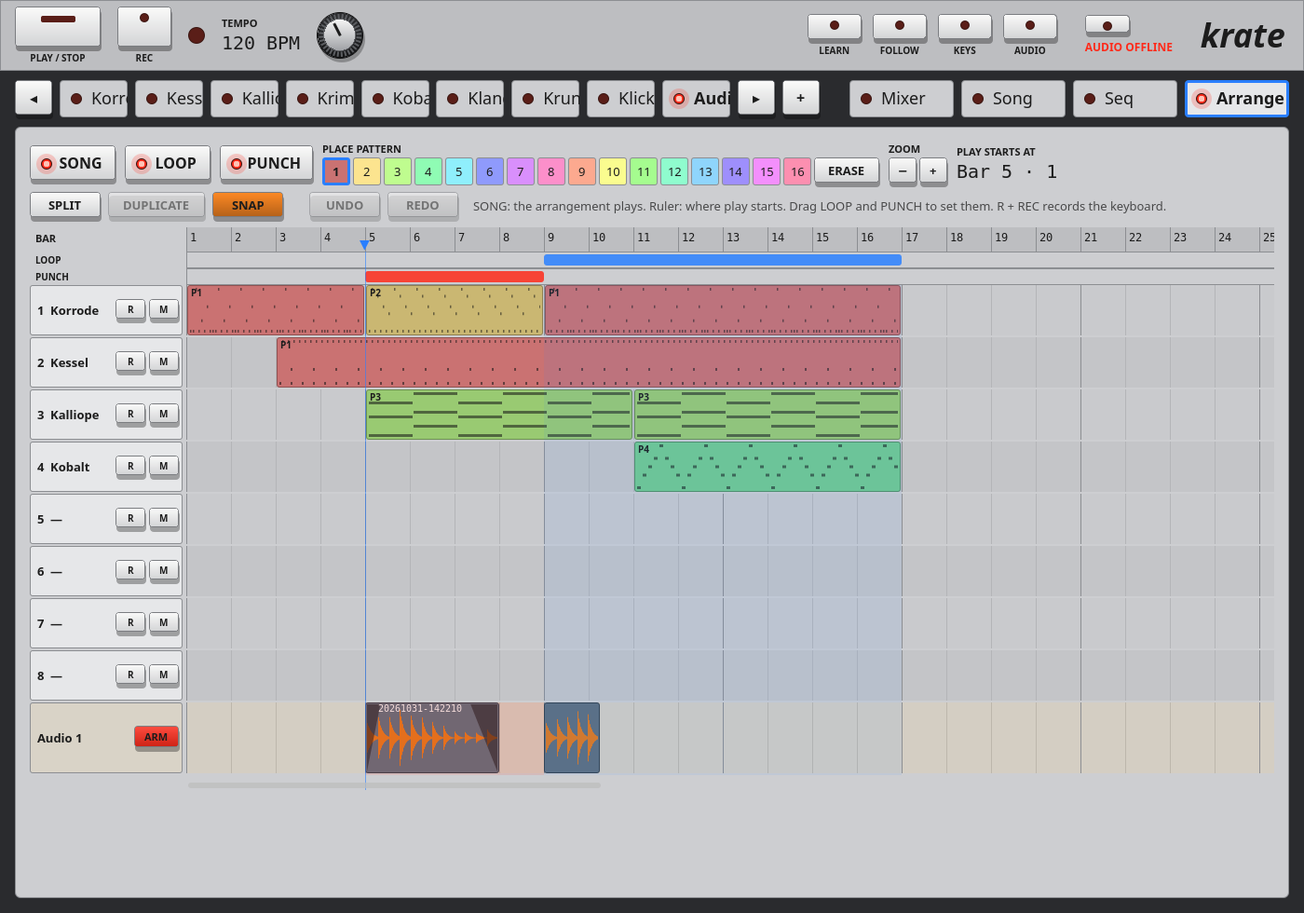
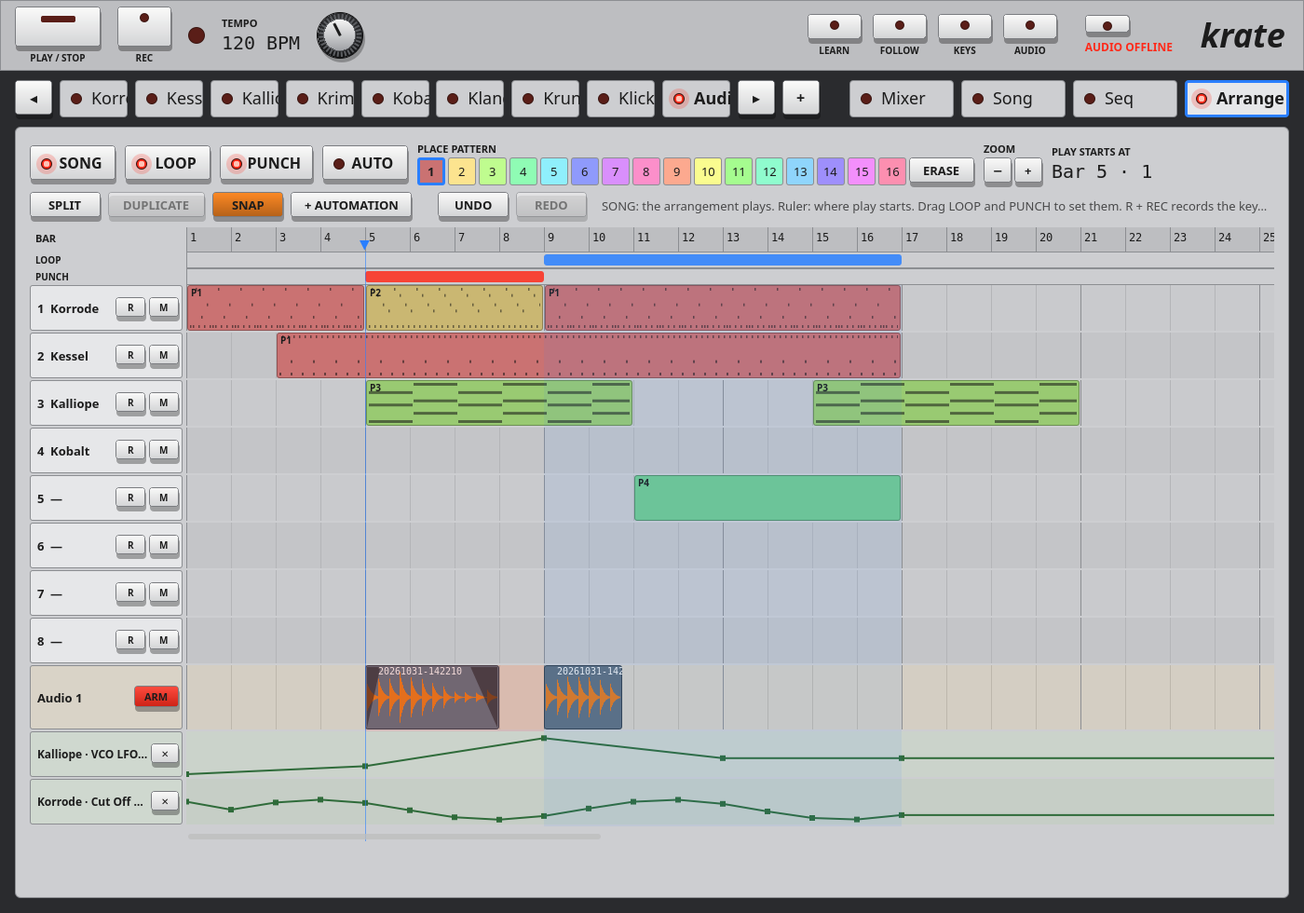
D5: automation lanes in the arranger; D5 done
+ AUTOMATION adds a lane for any instrument knob (an instrument, then its
knob), under the tracks. A click adds a point (quarter beats with SNAP),
points drag (the value shown as the knob shows it), a right click removes
one, a lane's ✕ removes it. AUTO in the header records knobs turned while
the song plays (lit red while recording).

Checked live through PipeWire: Klick's pitch turned through its panel
controller with AUTO on became a rising lane; played back, the knob
followed it (pitch about beat / 8). Points added and dragged with real
mouse events landed where intended.

Docs: D5 marked done in docs/DAW.md; README; the arranger screenshot.

diff --git a/apps/krate/qml/ArrangeScreen.qml b/apps/krate/qml/ArrangeScreen.qml
@@ -19,6 +19,11 @@ import KrateRack
 // click opens a pattern clip's pattern in the Seq screen. MIDI clips edit in
 // whole bars, audio clips in beats (SNAP off: freely). UNDO / REDO (Ctrl+Z,
 // Ctrl+Shift+Z) take back or redo any of it.
+//
+// Automation (D5): + AUTOMATION adds a lane for an instrument's knob, under
+// the tracks; a click on it adds a point, a point drags, a right click
+// removes it. With AUTO on (and SONG), knobs you turn while playing are
+// recorded into their lanes.
 Item {
     id: screen
 
@@ -36,7 +41,7 @@ Item {
     readonly property int stripHeight: 18
     // The lanes fill the screen's height (an audio lane a little taller), within reason.
     readonly property int midiLaneHeight: Math.max(30, Math.min(56, Math.floor(
-        (height - 150 - lanesTop - 24) / (8 + 1.4 * audioLanes.length))))
+        (height - 150 - lanesTop - 24) / (8 + 1.4 * audioLanes.length + autoLanes.length))))
     readonly property int audioLaneHeight: Math.round(midiLaneHeight * 1.4)
     readonly property var trackList: Sequencer.revision >= 0 ? Sequencer.tracks : []
     // The audio tracks in the rack: [{track, device}].
@@ -52,7 +57,10 @@ Item {
     readonly property int bars: Math.min(Arrange.maxBars, Math.max(64, Arrange.endBar + 16,
                                          Math.ceil(Arrange.position / 4) + 16, Arrange.loopTo + 4))
     readonly property real lanesTop: rulerHeight + 2 * stripHeight
+    readonly property var autoLanes: Arrange.revision >= 0 ? Arrange.automationLanes() : []
+    readonly property real autoTop: lanesTop + 8 * midiLaneHeight + audioLanes.length * audioLaneHeight
     readonly property real lanesHeight: 8 * midiLaneHeight + audioLanes.length * audioLaneHeight
+                                        + autoLanes.length * midiLaneHeight
 
     function barAt(x) { return Math.max(0, Math.min(Arrange.maxBars - 1, Math.floor(x / screen.barWidth))) }
     function select(kind, track, index) {
@@ -132,6 +140,16 @@ Item {
             text: "Punch: armed audio tracks record only inside the punch range (SONG mode)"
             onClicked: Arrange.punchOn = !Arrange.punchOn
             Led { x: 12; anchors.verticalCenter: parent.verticalCenter; on: Arrange.punchOn }
+        }
+        PanelButton {
+            width: 92
+            height: 40
+            anchors.verticalCenter: parent.verticalCenter
+            faceText: "    AUTO"
+            text: "Automation: knobs you turn while playing are recorded (SONG mode)"
+            tint: Arrange.writing ? Theme.ledOn : "transparent"
+            onClicked: Arrange.autoWrite = !Arrange.autoWrite
+            Led { x: 12; anchors.verticalCenter: parent.verticalCenter; on: Arrange.autoWrite }
         }
 
         Column {
@@ -273,6 +291,13 @@ Item {
             text: "Snap audio clips to beats"
             tint: screen.snap ? Theme.labelOrange : "transparent"
             onClicked: screen.snap = !screen.snap
+        }
+        PanelButton {
+            width: 130
+            height: 30
+            faceText: "+ AUTOMATION"
+            text: "Add an automation lane for an instrument's knob"
+            onClicked: automationPopup.open()
         }
         Item { width: 12; height: 1 }
         PanelButton {
@@ -450,6 +475,42 @@ Item {
                     text: "Arm Audio " + (audioName.modelData.track + 1) + " for recording"
                     tint: audioName.armed ? Theme.ledOn : "transparent"
                     onClicked: Tracks.setParam(audioName.modelData.track, 0, audioName.armed ? 0 : 1)
+                }
+            }
+        }
+
+        Repeater {
+            model: screen.autoLanes
+            Rectangle {
+                id: autoName
+                required property int index
+                required property var modelData
+                y: screen.autoTop + index * screen.midiLaneHeight
+                width: screen.headerWidth - 4
+                height: screen.midiLaneHeight - 2
+                radius: 3
+                color: "#CFD8CF"
+                border.color: Theme.deckLine
+                Text {
+                    x: 8
+                    anchors.verticalCenter: parent.verticalCenter
+                    width: parent.width - 44
+                    elide: Text.ElideRight
+                    text: autoName.modelData.deviceName + " · " + autoName.modelData.label
+                    color: Theme.ink
+                    font.family: Theme.labelFont
+                    font.pixelSize: 12
+                    font.bold: true
+                }
+                PanelButton {
+                    anchors.right: parent.right
+                    anchors.rightMargin: 4
+                    anchors.verticalCenter: parent.verticalCenter
+                    width: 30
+                    height: 24
+                    faceText: "✕"
+                    text: "Remove the automation lane " + autoName.modelData.deviceName + " " + autoName.modelData.label
+                    onClicked: Arrange.removeAutomationLane(autoName.index)
                 }
             }
         }
@@ -951,6 +1012,117 @@ Item {
                 }
             }
 
+            // The automation lanes: the line, its points.
+            Repeater {
+                model: screen.autoLanes
+                Rectangle {
+                    id: autoLane
+                    required property int index
+                    required property var modelData
+                    readonly property var points: modelData.points
+                    readonly property real beatWidth: screen.barWidth / 4
+                    property int dragging: -1 // the point being dragged
+                    property real dragBeat: 0
+                    property real dragValue: 0
+                    y: screen.autoTop + index * screen.midiLaneHeight
+                    width: content.width
+                    height: screen.midiLaneHeight - 2
+                    color: index % 2 ? "#C6CEC6" : "#CBD3CB"
+
+                    function xOf(beat) { return beat * beatWidth }
+                    function yOf(value) { return 3 + (1 - value) * (height - 6) }
+                    function valueAt(y) { return Math.max(0, Math.min(1, 1 - (y - 3) / (height - 6))) }
+                    // Quarter beats when SNAP is on.
+                    function beatAt(x) {
+                        const beat = Math.max(0, x / beatWidth)
+                        return screen.snap ? Math.round(beat * 4) / 4 : beat
+                    }
+                    function pointNear(x, y) {
+                        for (let i = 0; i < points.length; ++i)
+                            if (Math.abs(xOf(points[i].beat) - x) <= 6 && Math.abs(yOf(points[i].value) - y) <= 8)
+                                return i
+                        return -1
+                    }
+
+                    Canvas {
+                        id: curve
+                        anchors.fill: parent
+                        onPaint: {
+                            const ctx = getContext("2d")
+                            ctx.clearRect(0, 0, width, height)
+                            const pts = autoLane.points.map((p, i) => i === autoLane.dragging
+                                ? { beat: autoLane.dragBeat, value: autoLane.dragValue } : p)
+                            pts.sort((a, b) => a.beat - b.beat)
+                            if (pts.length === 0)
+                                return
+                            ctx.strokeStyle = "#2F6B3A"
+                            ctx.lineWidth = 2
+                            ctx.beginPath()
+                            ctx.moveTo(0, autoLane.yOf(pts[0].value))
+                            for (const p of pts)
+                                ctx.lineTo(autoLane.xOf(p.beat), autoLane.yOf(p.value))
+                            ctx.lineTo(width, autoLane.yOf(pts[pts.length - 1].value))
+                            ctx.stroke()
+                            ctx.fillStyle = "#2F6B3A"
+                            for (const p of pts)
+                                ctx.fillRect(autoLane.xOf(p.beat) - 3, autoLane.yOf(p.value) - 3, 6, 6)
+                        }
+                    }
+                    onPointsChanged: curve.requestPaint()
+                    onBeatWidthChanged: curve.requestPaint()
+                    onHeightChanged: curve.requestPaint()
+                    onWidthChanged: curve.requestPaint()
+
+                    Text { // a dragged point's value, as the knob shows it
+                        visible: autoLane.dragging >= 0
+                        x: autoLane.xOf(autoLane.dragBeat) + 8
+                        y: 2
+                        text: autoLane.dragging >= 0 ? Arrange.valueText(autoLane.index, autoLane.dragValue) : ""
+                        color: Theme.ink
+                        font.family: "monospace"
+                        font.pixelSize: 11
+                        font.bold: true
+                    }
+                    MouseArea {
+                        anchors.fill: parent
+                        acceptedButtons: Qt.LeftButton | Qt.RightButton
+                        preventStealing: true
+                        onPressed: mouse => {
+                            screen.select("", -1, -1)
+                            const near = autoLane.pointNear(mouse.x, mouse.y)
+                            if (mouse.button === Qt.RightButton || screen.erasing) {
+                                if (near >= 0)
+                                    Arrange.removePoint(autoLane.index, near)
+                                return
+                            }
+                            if (near < 0) {
+                                Arrange.addPoint(autoLane.index, autoLane.beatAt(mouse.x), autoLane.valueAt(mouse.y))
+                                return
+                            }
+                            autoLane.dragging = near
+                            autoLane.dragBeat = autoLane.points[near].beat
+                            autoLane.dragValue = autoLane.points[near].value
+                            curve.requestPaint()
+                        }
+                        onPositionChanged: mouse => {
+                            if (autoLane.dragging < 0)
+                                return
+                            autoLane.dragBeat = autoLane.beatAt(mouse.x)
+                            autoLane.dragValue = autoLane.valueAt(mouse.y)
+                            curve.requestPaint()
+                        }
+                        onReleased: {
+                            if (autoLane.dragging < 0)
+                                return
+                            const point = autoLane.dragging
+                            autoLane.dragging = -1
+                            Arrange.movePoint(autoLane.index, point, autoLane.dragBeat, autoLane.dragValue)
+                            curve.requestPaint()
+                        }
+                    }
+                }
+            }
+
             // The loop and punch ranges over the lanes, where play starts, and the playhead.
             Rectangle {
                 visible: Arrange.songMode && Arrange.loopOn
@@ -998,5 +1170,109 @@ Item {
         opacity: 0.6
         font.family: Theme.labelFont
         font.pixelSize: 13
+    }
+
+    // + AUTOMATION: an instrument, then one of its knobs.
+    Popup {
+        id: automationPopup
+        x: (screen.width - width) / 2
+        y: tools.y + tools.height + 6
+        width: 560
+        height: Math.min(screen.height - y - 16, 520)
+        padding: 16
+        modal: true
+        background: Rectangle { radius: 8; color: Theme.lowerDeck; border.color: Theme.deckLine; border.width: 2 }
+        property int device: -1
+        readonly property var devices: opened ? Arrange.automatableDevices() : []
+        onOpened: device = devices.length > 0 ? devices[0].device : -1
+
+        Row {
+            anchors.fill: parent
+            spacing: 12
+            Column { // the instruments
+                width: 170
+                spacing: 4
+                Text {
+                    text: "INSTRUMENT"
+                    color: Theme.ink
+                    font.family: Theme.labelFont
+                    font.pixelSize: 12
+                    font.bold: true
+                }
+                Repeater {
+                    model: automationPopup.devices
+                    Rectangle {
+                        id: deviceRow
+                        required property var modelData
+                        readonly property bool chosen: automationPopup.device === modelData.device
+                        width: 170
+                        height: 28
+                        radius: 3
+                        color: chosen ? Theme.accentUi : Theme.silverLight
+                        border.color: Theme.deckLine
+                        Text {
+                            x: 8
+                            anchors.verticalCenter: parent.verticalCenter
+                            text: deviceRow.modelData.name
+                            color: deviceRow.chosen ? Theme.inkInverse : Theme.ink
+                            font.family: Theme.labelFont
+                            font.pixelSize: 14
+                            font.bold: deviceRow.chosen
+                        }
+                        MouseArea {
+                            anchors.fill: parent
+                            onClicked: automationPopup.device = deviceRow.modelData.device
+                        }
+                    }
+                }
+            }
+            Column { // its knobs: a click adds the lane
+                width: parent.width - 182
+                height: parent.height
+                spacing: 4
+                Text {
+                    text: "KNOB: A CLICK ADDS ITS LANE"
+                    color: Theme.ink
+                    font.family: Theme.labelFont
+                    font.pixelSize: 12
+                    font.bold: true
+                }
+                ListView {
+                    id: knobList
+                    width: parent.width
+                    height: parent.height - 24
+                    clip: true
+                    spacing: 2
+                    model: automationPopup.device >= 0 ? Arrange.paramLabels(automationPopup.device) : []
+                    ScrollBar.vertical: ScrollBar { policy: ScrollBar.AsNeeded }
+                    delegate: Rectangle {
+                        id: knobRow
+                        required property int index
+                        required property string modelData
+                        width: knobList.width - 12
+                        height: 26
+                        radius: 3
+                        color: knobMouse.containsMouse ? Theme.silverLight : "transparent"
+                        Text {
+                            x: 8
+                            anchors.verticalCenter: parent.verticalCenter
+                            text: knobRow.modelData
+                            color: Theme.ink
+                            font.family: Theme.labelFont
+                            font.pixelSize: 14
+                        }
+                        MouseArea {
+                            id: knobMouse
+                            anchors.fill: parent
+                            hoverEnabled: true
+                            onClicked: {
+                                Arrange.addAutomationLane(automationPopup.device, knobRow.index)
+                                automationPopup.close()
+                            }
+                        }
+                    }
+                }
+            }
+        }
     }
 }

diff --git a/docs/DAW.md b/docs/DAW.md
@@ -12,7 +12,7 @@ Each milestone ends with something you can use, and is committed and pushed when
 | D2 ✅ | **Audio tracks and recording** | Audio tracks that record from an input (a guitar through Krunch, a microphone) or from any instrument's output to WAV files on disk, without dropouts (a disk thread fed from the audio thread through a lock-free buffer), and play back in time with the rack, the latency of the interface compensated. Result: eight tracks, **Audio 1** to **Audio 8**, added from **+** like an instrument (out of the rack until then; the rack now holds up to 32 devices and the host 66 output channels). Each is a rack device with a mixer strip and a panel: **ARM**, **MONITOR** (Off / Auto: while armed / On), **INPUT** (Stereo / In 1 / In 2, mono takes from one input), **SOURCE** (the interface's inputs, or any instrument's output in stereo: the mixer's input selector), an input meter, the active take's waveform and the list of takes (click one to play it, again for none; ✕ twice deletes its file). **REC** in the transport bar (learnable) arms recording: armed tracks record while the transport plays, a play from the top starting a new take. The audio thread copies the input into a lock-free ring (ten seconds); a disk thread writes it as 24-bit WAV to `~/.local/share/krate/recordings/audioN/take-<date>-<time>.wav`, and a new take waits until the last is written. A finished take is loaded off the GUI thread and becomes the track's active one; it plays at the transport's beat from where it was recorded, skipping the interface's round trip when it came from the interface (none from an instrument, which is already in time). The takes, each track's active take and its knobs are kept in `recordings/tracks.json`; quitting while recording keeps the take. Code: `shared/rec` (AudioRing, WavWriter, AudioTrack, Recorder; no Qt) and `apps/krate/AudioTracks` (the `Tracks` controller), `AudioTrackPanel.qml`. Tests: tst_recording (the ring, 24-bit files, recording and playing back in time, monitoring, mono, one take at a time, the disk thread), tst_audiotracks (a take through the controller kept, reloaded, picked and deleted; quitting mid-take; the registry entries). Checked live through PipeWire: Klick recorded into Audio 1 lands on every beat, sample-aligned from the take's start. |
 | D3 ✅ | **The arranger** | A song timeline: per track, patterns, MIDI clips and audio clips laid out across bars, instead of one pattern looping; loop and punch ranges. Result: an **Arrange** screen (tab, `A`, learnable). Its lanes are the sequencer's 8 tracks (each already aimed at an instrument) and the audio tracks in the rack, across bars of 4 beats at the rack's one tempo. **SONG** plays the arrangement instead of the patterns. On a MIDI lane a click places the chosen pattern for its own length (drag for longer; it repeats, cut at the clip's end), a click on a clip opens its pattern in the Seq screen, a right click or **ERASE** removes it. **R** arms a lane: with SONG and **REC** on, what you play on the keyboard while the transport plays becomes a MIDI clip over the bars it spans, replacing the clips there (with LOOP each pass adds to the take; with PUNCH only notes inside the range count). Audio lanes show their takes (each track's takes now go on a lane, a later one on top; the track panel puts a take on or off it). The ruler sets where play starts; the **LOOP** and **PUNCH** strips are dragged to set those ranges. The playhead follows, the page turns with it. Start, loop and punch apply in SONG mode only (patterns play as before otherwise); while a DAW leads over JACK, its position and loop do. How: the transport starts at a beat and wraps at the loop's end with `restarted`, the rack processor splitting the block there so the wrap is on the exact sample; the sequencer's SONG mode plays an `Arrangement` (lanes of clips, MIDI clips' notes) at the transport's beat, ending held notes on a jump; audio tracks play a playlist of clips and punch in and out on the sample; the rack processor taps the keyboard's notes (with their beats) into a lock-free queue for the arranger. All of it is kept with the sequence (`sequencer.json` "arrange", saved sequences); audio clips in `recordings/tracks.json`. Tests: tst_transport (start, loop on the sample), tst_rack (the processor's split), tst_racksequencer (pattern and MIDI clips, a note across the wrap, play from a bar), tst_recording (clips on top of each other, punch mid-block), tst_audiotracks (lanes, older files), tst_sequencerfile, tst_seqcontroller (placing, SONG mode and the transport, recording MIDI clips, punch). Checked live through PipeWire: SONG from bar 5 with punch on bars 5-8 recorded Korrode into Audio 1 as one take at beat 16, exactly 4 bars, its notes on the step grid; MIDI sent into `krate:midi_in` became a clip with the notes' lengths and spacing to the tick. |
 | D4 ✅ | **Clip editing** | Move, trim, split, duplicate and fade clips; undo and redo for every edit. Result: in the arranger a click selects a clip; dragging it moves it (a MIDI clip to another lane too), dragging an edge trims it; **SPLIT** cuts a clip where you click, **DUPLICATE** (Ctrl+D) puts a copy right after it, Delete (or a right click, or ERASE) removes it; a double click opens a pattern clip's pattern in the Seq screen. MIDI clips edit in whole bars and never overlap (an edit that would is refused); a clip trimmed at its start, or the second half of a split, plays from that far into its pattern or notes (`offsetBars`), and a split or copied MIDI clip gets its own notes. Audio clips edit in beats (**SNAP** off: freely), may overlap (the one moved or made comes out on top), and the selected one's top corners set its fades (linear, drawn over the waveform). **UNDO** / **REDO** (Ctrl+Z, Ctrl+Shift+Z) take back or redo every lane edit, MIDI and audio alike, including a recording landing and the track panel's lane LEDs: snapshots of both, up to 100 steps, starting afresh when another sequence opens (deleting a take's file from the track panel can't be undone; it asks first). Tests: tst_racksequencer (offset clips), tst_recording (fades), tst_seqcontroller (each edit, refused overlaps, undo across MIDI and audio, a trimmed clip's drawing, tracks.json keeping the edits). Checked by driving the screen with real mouse events offscreen: a clip dragged 2 bars, one dragged to the next lane, a take's end pulled 2 beats (48000 frames at 120 BPM) all landed exactly, and Ctrl+Z took them back one at a time. |
-| D5 | **Automation** | Knob movements recorded while playing, and drawn as lanes per track. |
+| D5 ✅ | **Automation** | Knob movements recorded while playing, and drawn as lanes per track. Result: every knob of every instrument can be automated. **+ AUTOMATION** in the arranger adds a lane for one (an instrument, then its knob), under the tracks, starting where the knob is; a click on a lane adds a point (quarter beats with SNAP), a point drags (its value shown as the knob shows it), a right click removes it; ✕ removes the lane. In SONG mode the lanes play: straight lines between points, set at every block's beat on the audio thread (around a loop's end too) as a learned MIDI knob is, so the panels follow. With **AUTO** on, knobs you turn while playing (on a panel or a learned MIDI knob) are recorded about 66 times a second: that knob's lane stops playing until play stops, then the recorded stretch replaces what the lane had there (its old line resumes either side; a new lane if it had none; a loop going round starts a new stretch); the points a straight line already gives are dropped. Automation playing a knob isn't mistaken for a hand on it (the player records what it sets before setting it). Lanes are kept with the sequence by instrument id and knob key; every lane and point edit, and each recording, is one undo step. Not in D5: the mixer's faders and pans (they live in the mixer's GUI state; automating them is its own job). Tests: tst_rack (played through the processor at each block and part, held lanes, the loop), tst_sequencerfile, tst_seqcontroller (editing, playback, recording a new lane and over an old one, one undo step). Checked live through PipeWire: Klick's pitch turned through its panel controller with AUTO on became a lane rising 0.025 every 0.2 beats; played back, the knob followed the line (pitch about beat / 8, overriding where it had been set); and points added and dragged with real mouse events landed at the beats and values intended. |
 | D6 | **Bounce and export** | The whole song (or a range, or each track) rendered to WAV, faster than real time. |
 | D7 | **CLAP plugins in the rack** | Third-party CLAP instruments and effects added to the rack like the built-in ones, their windows opened from their tabs, their state saved with the session. |
 

diff --git a/README.md b/README.md
@@ -36,11 +36,11 @@ The rack hosts every instrument at once: one transport (play, stop, tempo), one 
 - **Song**: open a Guitar Pro tab (`.gp`) and/or a MIDI file, put its tracks on Krate's instruments, leave your own part out and play along, with your part's tab scrolling by; a song library keeps every song with its setup and sounds ([docs/SONG_PLAYER.md](docs/SONG_PLAYER.md)).
 - **Your choice of instruments**: **+** next to the tabs adds or removes them; one you remove isn't shown or played (no CPU), and comes back with its sound, mixer strip and MIDI links as they were.
 - **Audio tracks**: add up to eight from **+**. Each records your interface's inputs (a guitar, a microphone) or any instrument's output: ARM it, press **REC**, then **PLAY**. Takes are 24-bit WAV files in `~/.local/share/krate/recordings` and go on the track's lane where they were recorded; the track panel puts any take on the lane or takes it off.
-- **Arranger**: the Arrange screen lays the song out across bars: the sequencer's 8 tracks as lanes of pattern clips and MIDI clips, and the audio tracks' takes. Switch **SONG** on and the arrangement plays; click the ruler to start from a bar, drag **LOOP** and **PUNCH** ranges, arm a lane with **R** and press **REC** to record what you play on the keyboard into a MIDI clip. Clips move, trim, split, duplicate and (audio) fade by dragging, and every edit can be undone (Ctrl+Z). Krate is growing into a DAW from here: automation and export are next ([docs/DAW.md](docs/DAW.md)).
+- **Arranger**: the Arrange screen lays the song out across bars: the sequencer's 8 tracks as lanes of pattern clips and MIDI clips, and the audio tracks' takes. Switch **SONG** on and the arrangement plays; click the ruler to start from a bar, drag **LOOP** and **PUNCH** ranges, arm a lane with **R** and press **REC** to record what you play on the keyboard into a MIDI clip. Clips move, trim, split, duplicate and (audio) fade by dragging, and every edit can be undone (Ctrl+Z). Any instrument knob can be automated: draw its lane, or switch **AUTO** on and turn the knob while the song plays. Export is next ([docs/DAW.md](docs/DAW.md)).
 
 ![An audio track in the Krate rack: arm, monitor, input, source, the take's waveform and the takes](docs/screenshots/krate-audio.png)
 
-![The arranger: pattern clips on the sequencer's tracks, an audio track's takes, the loop and punch ranges](docs/screenshots/krate-arrange.png)
+![The arranger: pattern clips on the sequencer's tracks, an audio track's takes, automation lanes, the loop and punch ranges](docs/screenshots/krate-arrange.png)
 
 - **MIDI Learn** across the rack: any knob, button or tab to a control on your keyboard.
 
